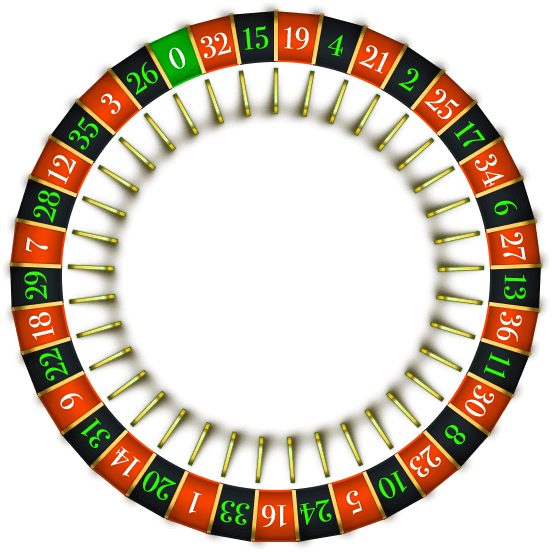
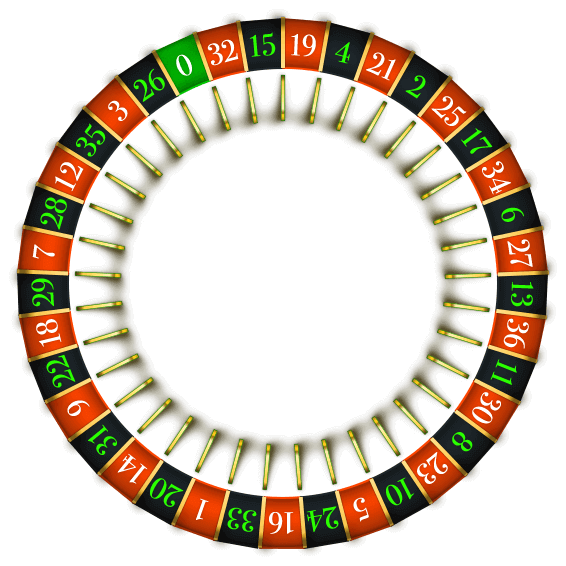
weekend: RouletteWheel updated

Changed region(s): [[0.0, 0.0, 1.0, 1.0]]

diff --git a/packages/ui/src/weekend/src/RouletteWheel/WkdRouletteWheel.module.scss b/packages/ui/src/weekend/src/RouletteWheel/WkdRouletteWheel.module.scss
@@ -25,19 +25,33 @@ $root: WkdRouletteWheel;
   display: inline-block;
   position: relative;
   border-radius: 50%;
-  border: 0.2em solid #3b3b3b;
-  background: linear-gradient(180deg, #090909, #2b2b2b);
-  padding: 0.8em;
   box-sizing: border-box;
+  width: 56.6em;
+  height: 56.6em;
+  background: linear-gradient(180deg, #090909, #2b2b2b);
+}
+
+.border {
+  position: absolute;
+  width: 100%;
+  height: 100%;
+  border: 0.2em solid #3b3b3b;
+  padding: 0.8em;
+  background: linear-gradient(180deg, #090909, #2b2b2b);
+  z-index: -1;
+  border-radius: 50%;
+  left: 50%;
+  top: 50%;
+  transform: translate(-50%, -50%);
 }
 
 .bg {
   vertical-align: middle;
   border-radius: 50%;
   margin: auto;
-  width: 56.6em;
-  height: 56.6em;
-  background-image: url(./img/roulette_bg.png);
+  width: 100%;
+  height: 100%;
+  background-image: url(./img/wheel_bg.png);
   background-repeat: no-repeat;
   background-size: contain;
 }
@@ -52,7 +66,7 @@ $root: WkdRouletteWheel;
   background-color: initial;
   background-position: 50%;
   background-repeat: no-repeat;
-  background-size: 55.2em;
+  background-size: contain;
   -webkit-backface-visibility: hidden;
   backface-visibility: hidden;
   transform: translateZ(0) scale(1);
@@ -64,7 +78,6 @@ $root: WkdRouletteWheel;
 
   &_nozero {
     background-image: url(./img/slots_nozero.png);
-    background-size: 56.6em;
   }
 }
 

diff --git a/packages/ui/src/weekend/src/RouletteWheel/RouletteWheel.tsx b/packages/ui/src/weekend/src/RouletteWheel/RouletteWheel.tsx
@@ -14,6 +14,7 @@ type Props = {
   visibleZone: [from: number, to: number];
   onResult?: any;
   children?: React.ReactNode;
+  disableBorder?: boolean;
 };
 
 const NUMBERS = [
@@ -69,6 +70,7 @@ export const RouletteWheel = (props: Props) => {
     visibleZone,
     onResult,
     children,
+    disableBorder,
   } = props;
   const classes = useClasses(styles, classesProp);
   const ballRef: MutableRefObject<HTMLDivElement | null> = React.useRef(null);
@@ -163,6 +165,7 @@ export const RouletteWheel = (props: Props) => {
 
   return (
     <div className={clsx(classes.root, className)}>
+      {!disableBorder && <div className={classes.border} />}
       <div className={classes.bg} />
       <div className={clsx(classes.slots, classes[`slots_${slots}`])} ref={slotsRef} />
       <div className={clsx(classes.ball)} ref={ballRef} onAnimationEnd={ballAnimationEnd} />

diff --git a/packages/ui/src/wsr/src/DesktopLayout/DesktopLayout.tsx b/packages/ui/src/wsr/src/DesktopLayout/DesktopLayout.tsx
@@ -6,16 +6,15 @@ import { Viewport, ViewportProps } from '@cb-general/core/Viewport';
 import styles from './DesktopLayout.module.scss';
 
 type Props = ViewportProps & {
-  header?: React.ReactElement;
   children?: React.ReactNode;
 };
 
 export const DesktopLayout = (props: Props) => {
-  const { className, header, children, ...viewportProps } = props;
+  const { className, children, ...viewportProps } = props;
 
   return (
     <Viewport {...viewportProps}>
-      <div className={clsx(styles.root, className)}>{header}</div>
+      <div className={clsx(styles.root, className)}>{children}</div>
     </Viewport>
   );
 };
